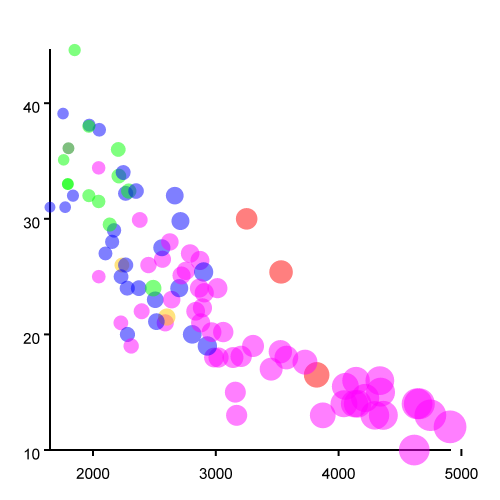
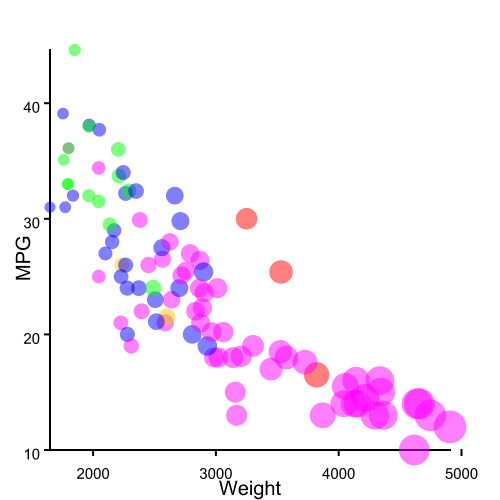
Fix java axis labels

diff --git a/java/src/Main.java b/java/src/Main.java
@@ -99,12 +99,27 @@ public class Main {
             graphics.drawString(label, (int)xAxis.map(xMin) - (int) bounds.getWidth() - 10 * multiSampling, image.getHeight() - (newY - (int) bounds.getHeight() / 2));
         });
 
+        // X Axis Label
+        graphics.setFont(graphics.getFont().deriveFont(20f * multiSampling));
+        String xAxisLabel = "Weight";
+        Rectangle2D bounds = graphics.getFontMetrics().getStringBounds(xAxisLabel, graphics);
+        graphics.drawString(xAxisLabel, image.getWidth() / 2 - (int) bounds.getWidth() / 2, image.getHeight() - 5 * multiSampling);
+
+        // Y Axis Label
         AffineTransform globalTransform = new AffineTransform();
+        globalTransform.setToRotation(-Math.PI / 2.0);
+        graphics.transform(globalTransform);
+        String yAxisLabel = "MPG";
+        bounds = graphics.getFontMetrics().getStringBounds(xAxisLabel, graphics);
+        graphics.drawString(yAxisLabel, -image.getHeight() / 2 - (int) bounds.getWidth() / 2,  5 * multiSampling + (int) bounds.getHeight());
+
+        globalTransform.setToRotation(Math.PI / 2.0);
         globalTransform.translate(0.0, image.getHeight());
         globalTransform.scale(1.0, -1.0);
         graphics.transform(globalTransform);
 
 
+        // Draw Points
         Ellipse2D.Double circle = new Ellipse2D.Double(-0.5, -0.5, 1.0, 1.0);
         graphics.setComposite(AlphaComposite.getInstance(AlphaComposite.SRC_OVER, 0.5f));
 
@@ -130,17 +145,5 @@ public class Main {
 
         ImageIO.write(shrunk, "png", new File("out.png"));
     }
-
-
-
-
-
-
-
-
-
-
-
-
 
 }
